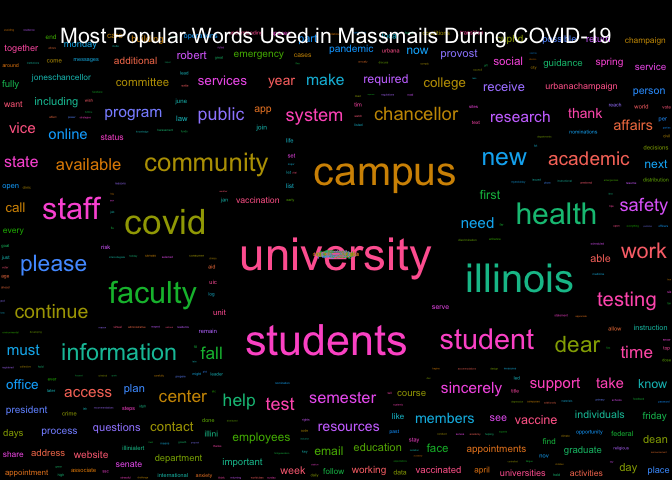
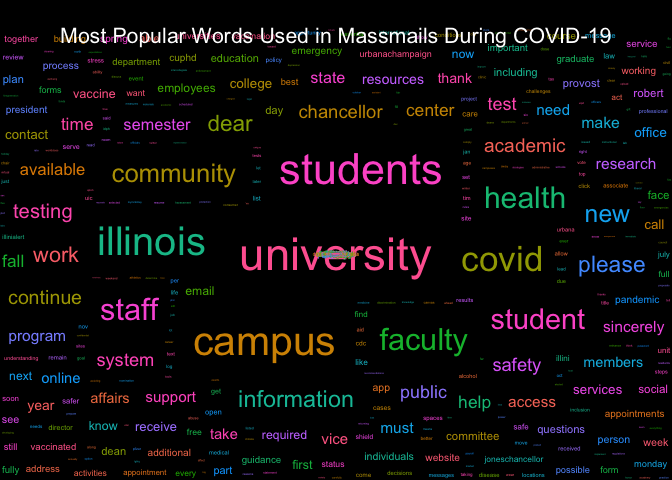
Re-build README.Rmd and Graphs

Changed region(s): [[0.0, 0.0625, 1.0, 1.0], [0.625, 0.625, 0.6875, 0.6562]]

diff --git a/README.md b/README.md
@@ -17,7 +17,7 @@ The archive may be viewed here:
 
 <https://massmail.illinois.edu/massmailArchive>
 
-Data has **811** observations and **7** variables:
+Data has **812** observations and **7** variables:
 
 - `datetime`: Date and time when the email was sent in the form of
   `YYYY-MM-DD HMS` with either CDT or CST.
@@ -210,13 +210,13 @@ head(most_popular_words, 10) %>%
 
 | word       | freq |
 |:-----------|-----:|
-| university | 1986 |
+| university | 1987 |
 | students   | 1695 |
-| campus     | 1527 |
-| illinois   | 1349 |
+| campus     | 1531 |
+| illinois   | 1352 |
 | covid      | 1070 |
 | faculty    | 1001 |
-| community  |  938 |
+| community  |  941 |
 | health     |  916 |
 | student    |  916 |
 | staff      |  831 |
